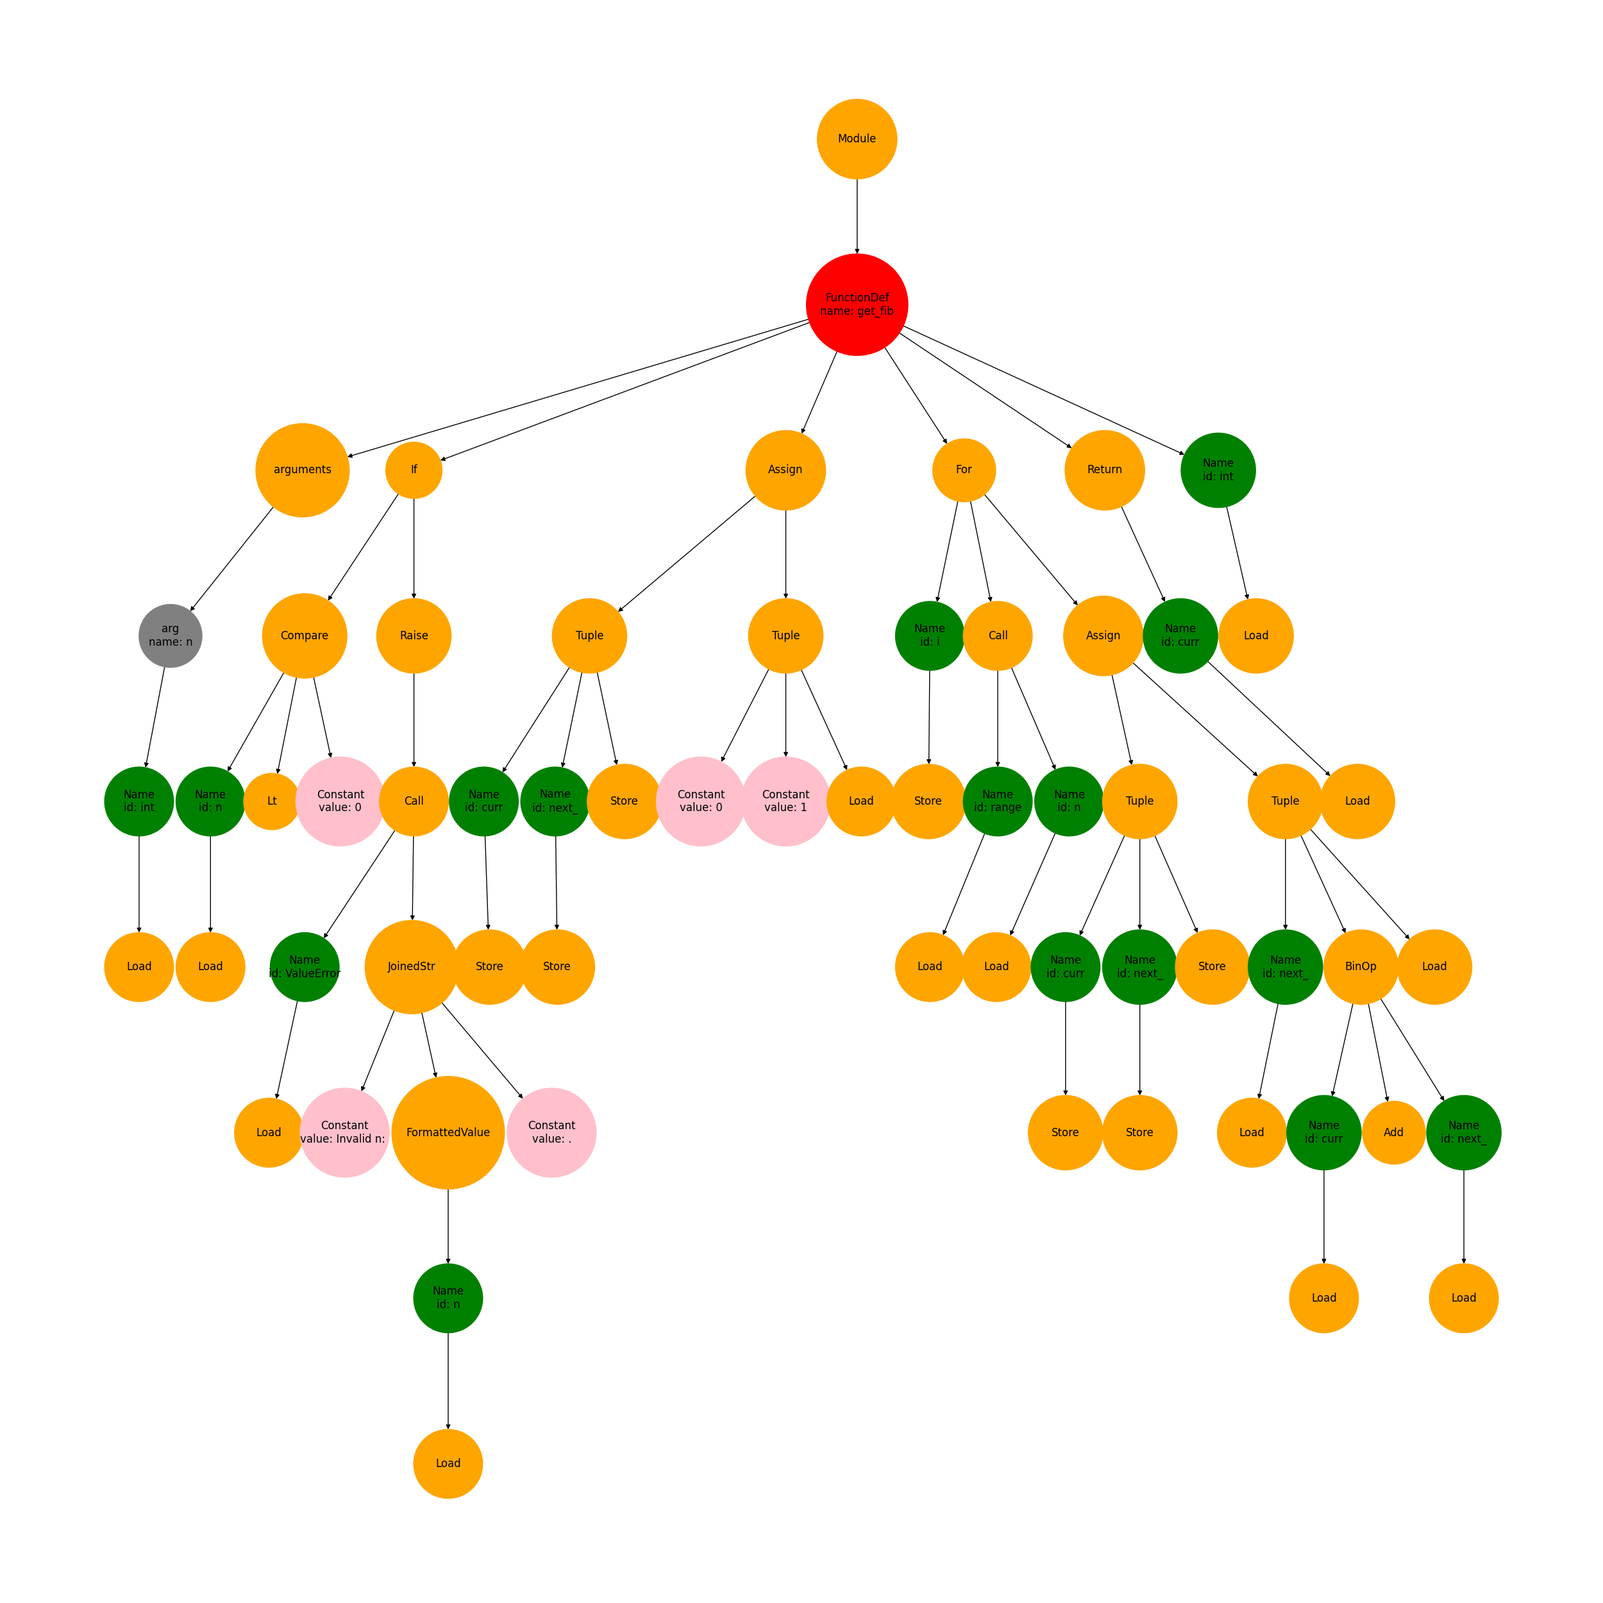
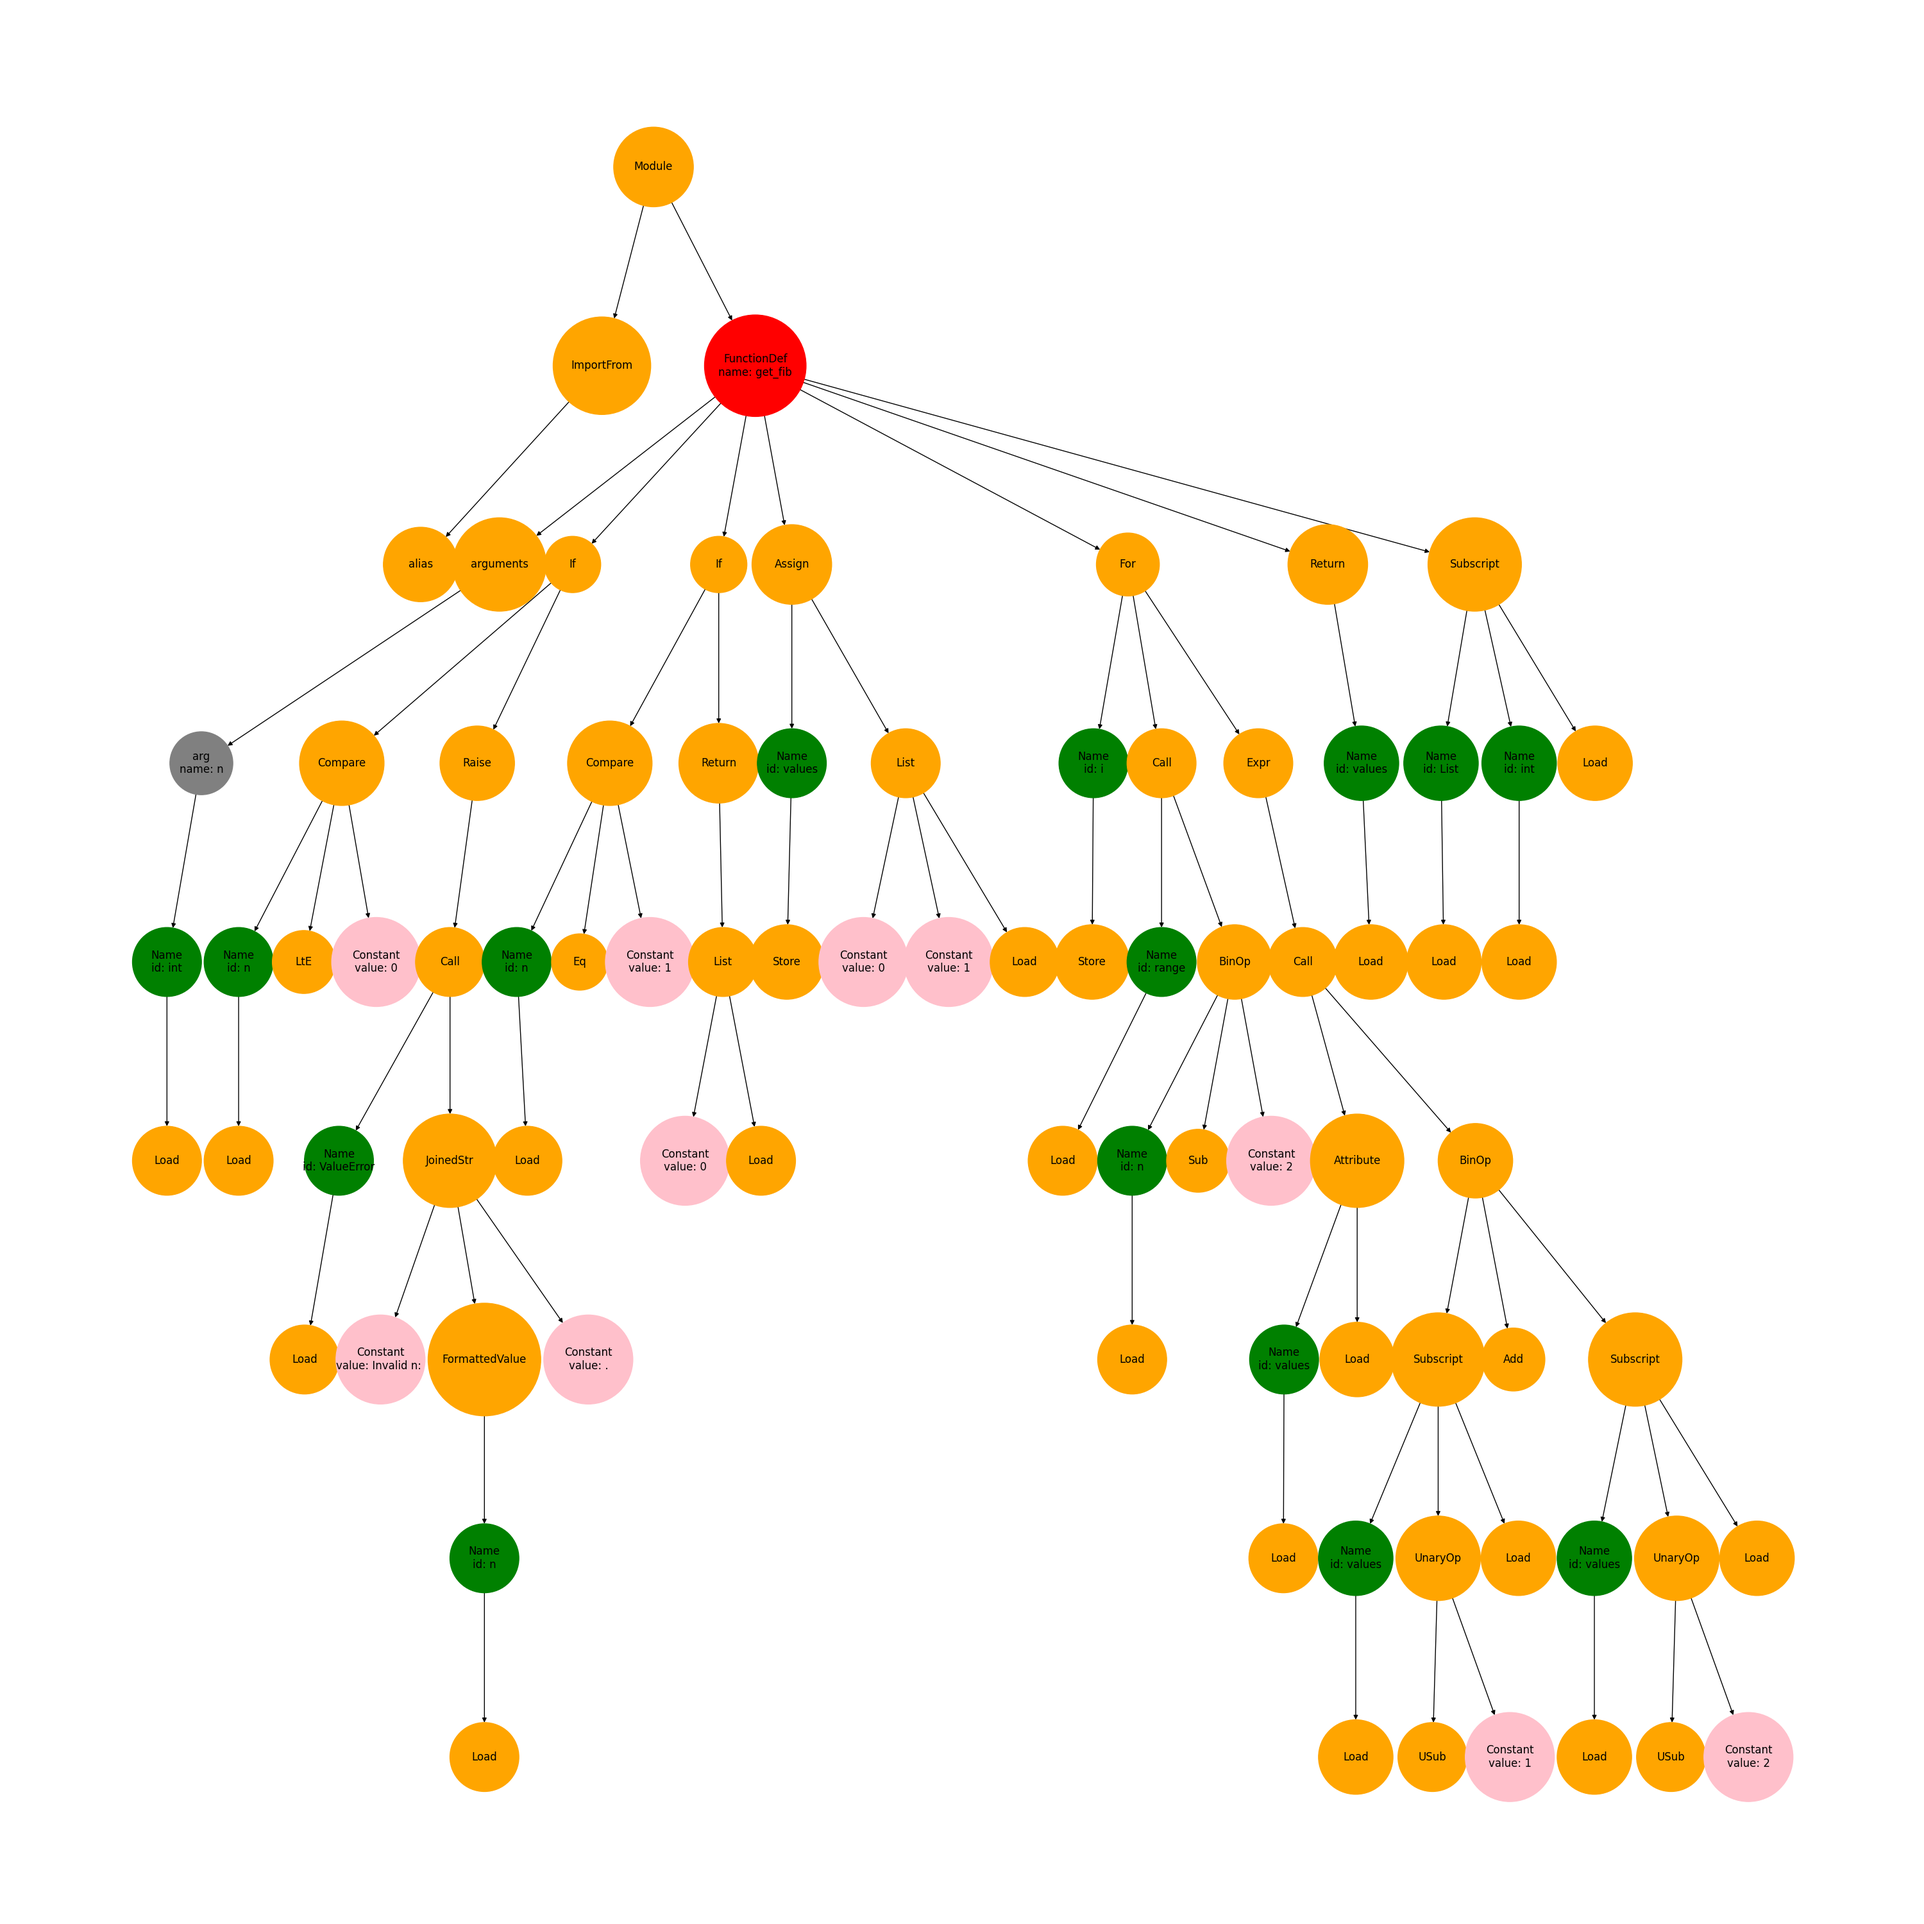
Update hw

diff --git a/hw_1/fibonacci.py b/hw_1/fibonacci.py
@@ -1,9 +1,15 @@
-def get_fib(n: int) -> int:
-    if n < 0:
+from typing import List
+
+
+def get_fib(n: int) -> List[int]:
+    if n <= 0:
         raise ValueError(f"Invalid n: {n}.")
 
-    curr, next_ = 0, 1
-    for i in range(n):
-        curr, next_ = next_, curr + next_
+    if n == 1:
+        return [0]
 
-    return curr
+    values = [0, 1]
+    for i in range(n - 2):
+        values.append(values[-1] + values[-2])
+
+    return values

diff --git a/hw_1/ast_builder.py b/hw_1/ast_builder.py
@@ -58,7 +58,7 @@ class ASTVisualizer(ast.NodeVisitor):
         self.extend_ast(node, label, "orange")
 
     def visualize(self, save_path: Optional[str] = None):
-        plt.figure(1, figsize=(25, 25))
+        plt.figure(1, figsize=(30, 30))
         pos = graphviz_layout(self.ast, prog="dot")
         nx.draw(self.ast, pos,
                 labels=self.label_dict, with_labels=True,
